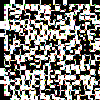
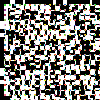
Updated canada.pymy1.png .

diff --git a/canada.py b/canada.py
@@ -37,14 +37,14 @@ moverPieza(outp,4,7,0,3)
 moverPieza(outp,5,3,0,11)
 moverPieza(outp,7,17,0,16)
 moverPieza(outp,8,8,0,1)
-moverPieza(outp,10,1,0,12)
+moverPieza(outp,10,1,0,9)
 moverPieza(outp,11,11,0,7)
 moverPieza(outp,12,16,0,10)
 moverPieza(outp,13,6,0,14)
 moverPieza(outp,15,5,0,15)
 moverPieza(outp,16,5,0,2)
 moverPieza(outp,17,4,0,18)
-moverPieza(outp,17,12,0,9)
+moverPieza(outp,17,12,0,12)
 moverPieza(outp,18,10,0,13)
 moverPieza(outp,19,17,0,19)
 moverPieza(outp,4,14,19,19)
